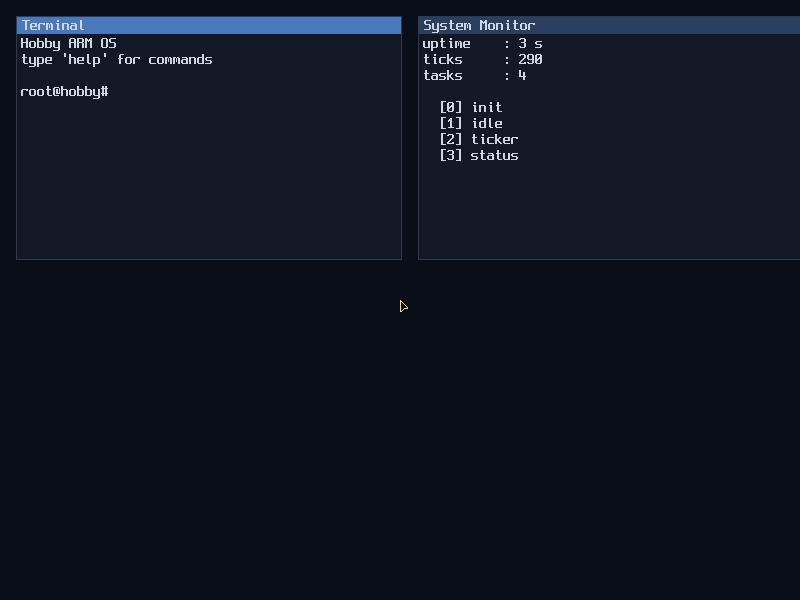
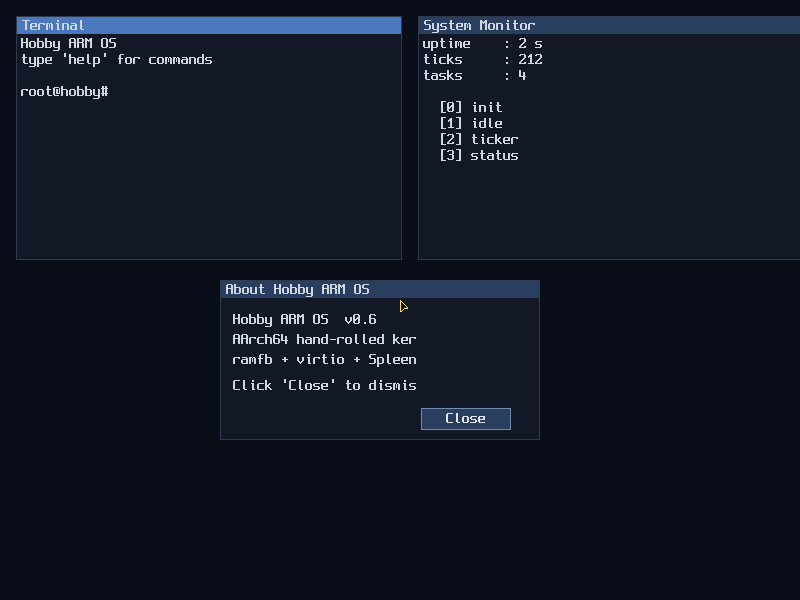
J1: widget toolkit (label + button) + About dialog
window_t now has a 'kind' field so it can hold either a text buffer
or a widget tree. New widget_t carries x/y/w/h, text, pressed state
and an on_click callback. window_create_widget builds a dialog-style
window; window_add_label/window_add_button populate it.

Mouse handling grows a hit-test loop: a press inside a button marks
it pressed (visual feedback), a release while still over the same
button fires its callback. Title-bar drag still works for both
window kinds.

The About dialog spawns at boot with a few label rows and a Close
button wired to window_close. Click it and the dialog disappears.
Three windows now live on the desktop side by side.

diff --git a/src/window.c b/src/window.c
@@ -57,17 +57,78 @@ window_t *window_create(const char *title, int x, int y) {
     copy_title(w->title, title);
     w->visible = 1;
     w->focused = (window_n == 0);
+    w->kind    = WIN_KIND_TEXT;
     w->bg      = WIN_BG;
     w->fg      = WIN_FG;
     w->accent  = WIN_ACCENT;
     w->cur_row = 0;
     w->cur_col = 0;
+    w->widget_count = 0;
     for (int r = 0; r < WIN_ROWS; r++)
         for (int c = 0; c < WIN_COLS; c++)
             w->text[r][c] = ' ';
     if (focus_idx < 0) focus_idx = window_n;
     window_n++;
     return w;
+}
+
+window_t *window_create_widget(const char *title, int x, int y, int w, int h) {
+    if (window_n >= MAX_WINDOWS) return NULL;
+    window_t *win = &windows[window_n];
+    win->id      = window_n;
+    win->x       = x;
+    win->y       = y;
+    win->w       = w;
+    win->h       = h;
+    copy_title(win->title, title);
+    win->visible = 1;
+    win->focused = 0;
+    win->kind    = WIN_KIND_WIDGET;
+    win->bg      = WIN_BG;
+    win->fg      = WIN_FG;
+    win->accent  = WIN_ACCENT;
+    win->widget_count = 0;
+    if (focus_idx < 0) focus_idx = window_n;
+    window_n++;
+    return win;
+}
+
+static void copy_widget_text(char *dst, const char *src) {
+    int i = 0;
+    while (i < WIDGET_TEXT_MAX - 1 && src[i]) { dst[i] = src[i]; i++; }
+    dst[i] = '\0';
+}
+
+widget_t *window_add_label(window_t *w, int x, int y,
+                           int width, const char *text) {
+    if (!w || w->widget_count >= WIN_MAX_WIDGETS) return NULL;
+    widget_t *g = &w->widgets[w->widget_count++];
+    g->type   = WIDGET_LABEL;
+    g->x = x; g->y = y;
+    g->w = width; g->h = WIN_CHAR_H;
+    g->pressed = 0;
+    g->on_click = NULL;
+    copy_widget_text(g->text, text);
+    return g;
+}
+
+widget_t *window_add_button(window_t *w, int x, int y, int width,
+                            const char *text,
+                            void (*on_click)(window_t *, widget_t *)) {
+    if (!w || w->widget_count >= WIN_MAX_WIDGETS) return NULL;
+    widget_t *g = &w->widgets[w->widget_count++];
+    g->type   = WIDGET_BUTTON;
+    g->x = x; g->y = y;
+    g->w = width; g->h = WIN_CHAR_H + 6;
+    g->pressed  = 0;
+    g->on_click = on_click;
+    copy_widget_text(g->text, text);
+    return g;
+}
+
+void window_close(window_t *w) {
+    if (!w) return;
+    w->visible = 0;
 }
 
 void window_clear(window_t *w) {
@@ -158,6 +219,21 @@ static int point_in_titlebar(window_t *w, int x, int y) {
            y >= w->y && y < w->y + WIN_TITLE_H;
 }
 
+static widget_t *widget_at(window_t *w, int gx, int gy) {
+    if (w->kind != WIN_KIND_WIDGET) return NULL;
+    int local_x = gx - w->x - WIN_BORDER;
+    int local_y = gy - w->y - WIN_TITLE_H;
+    for (int i = 0; i < w->widget_count; i++) {
+        widget_t *g = &w->widgets[i];
+        if (g->type != WIDGET_BUTTON) continue;
+        if (local_x >= g->x && local_x < g->x + g->w &&
+            local_y >= g->y && local_y < g->y + g->h) {
+            return g;
+        }
+    }
+    return NULL;
+}
+
 void window_handle_pointer(int32_t mx, int32_t my, int buttons) {
     int left_now  = (buttons & 1) != 0;
     int left_prev = (prev_buttons & 1) != 0;
@@ -168,11 +244,13 @@ void window_handle_pointer(int32_t mx, int32_t my, int buttons) {
         /* topmost window under the cursor wins (focused first, then later) */
         int hit = -1;
         if (focus_idx >= 0 && focus_idx < window_n &&
+            windows[focus_idx].visible &&
             point_in_window(&windows[focus_idx], (int)mx, (int)my)) {
             hit = focus_idx;
         } else {
             for (int i = window_n - 1; i >= 0; i--) {
-                if (point_in_window(&windows[i], (int)mx, (int)my)) {
+                if (windows[i].visible &&
+                    point_in_window(&windows[i], (int)mx, (int)my)) {
                     hit = i;
                     break;
                 }
@@ -180,7 +258,10 @@ void window_handle_pointer(int32_t mx, int32_t my, int buttons) {
         }
         if (hit >= 0) {
             window_set_focus(&windows[hit]);
-            if (point_in_titlebar(&windows[hit], (int)mx, (int)my)) {
+            widget_t *g = widget_at(&windows[hit], (int)mx, (int)my);
+            if (g) {
+                g->pressed = 1;
+            } else if (point_in_titlebar(&windows[hit], (int)mx, (int)my)) {
                 drag_active = 1;
                 drag_window = hit;
                 drag_off_x  = (int)mx - windows[hit].x;
@@ -203,9 +284,59 @@ void window_handle_pointer(int32_t mx, int32_t my, int buttons) {
     if (release) {
         drag_active = 0;
         drag_window = -1;
+
+        /* fire button click on release if cursor is still over a pressed
+         * button in the focused window */
+        if (focus_idx >= 0 && focus_idx < window_n) {
+            window_t *w = &windows[focus_idx];
+            for (int i = 0; i < w->widget_count; i++) {
+                widget_t *g = &w->widgets[i];
+                if (g->type != WIDGET_BUTTON) continue;
+                if (g->pressed) {
+                    widget_t *over = widget_at(w, (int)mx, (int)my);
+                    if (over == g && g->on_click) {
+                        g->on_click(w, g);
+                    }
+                    g->pressed = 0;
+                }
+            }
+        }
     }
 
     prev_buttons = buttons;
+}
+
+static void draw_widget(window_t *w, widget_t *g) {
+    int wx = w->x + WIN_BORDER + g->x;
+    int wy = w->y + WIN_TITLE_H + g->y;
+
+    if (g->type == WIDGET_BUTTON) {
+        uint32_t bg = g->pressed ? 0x00355077u : 0x002a3e60u;
+        uint32_t edge = 0x00708ab0u;
+        fb_fill_rect(wx, wy, g->w, g->h, bg);
+        fb_fill_rect(wx, wy, g->w, 1, edge);
+        fb_fill_rect(wx, wy + g->h - 1, g->w, 1, edge);
+        fb_fill_rect(wx, wy, 1, g->h, edge);
+        fb_fill_rect(wx + g->w - 1, wy, 1, g->h, edge);
+
+        /* center the label horizontally */
+        int len = 0;
+        while (len < WIDGET_TEXT_MAX && g->text[len]) len++;
+        int text_w = len * WIN_CHAR_W;
+        int tx = wx + (g->w - text_w) / 2;
+        int ty = wy + (g->h - 16) / 2;
+        for (int i = 0; i < len; i++) {
+            fb_draw_glyph16((uint32_t)(tx + i * WIN_CHAR_W),
+                            (uint32_t)ty, g->text[i], 0x00e0e6f0u);
+        }
+        return;
+    }
+
+    /* WIDGET_LABEL */
+    for (int i = 0; i < WIDGET_TEXT_MAX && g->text[i]; i++) {
+        fb_draw_glyph16((uint32_t)(wx + i * WIN_CHAR_W),
+                        (uint32_t)wy, g->text[i], w->fg);
+    }
 }
 
 static void paint_window(window_t *w) {
@@ -230,7 +361,15 @@ static void paint_window(window_t *w) {
     int cw = w->w - 2 * WIN_BORDER;
     int ch = w->h - WIN_TITLE_H - WIN_BORDER;
     fb_fill_rect(cx, cy, cw, ch, w->bg);
-    /* Content text */
+
+    if (w->kind == WIN_KIND_WIDGET) {
+        for (int i = 0; i < w->widget_count; i++) {
+            draw_widget(w, &w->widgets[i]);
+        }
+        return;
+    }
+
+    /* WIN_KIND_TEXT */
     for (int r = 0; r < WIN_ROWS; r++) {
         for (int c = 0; c < WIN_COLS; c++) {
             char ch_ = w->text[r][c];

diff --git a/src/window.h b/src/window.h
@@ -11,23 +11,53 @@
 #define WIN_TITLE_H   18
 #define WIN_BORDER    1
 
+#define WIN_KIND_TEXT   0
+#define WIN_KIND_WIDGET 1
+
+#define WIDGET_LABEL  0
+#define WIDGET_BUTTON 1
+
+#define WIDGET_TEXT_MAX 24
+#define WIN_MAX_WIDGETS 16
+
+struct window;
+
+typedef struct widget {
+    int   type;
+    int   x, y, w, h;     /* relative to window content area */
+    char  text[WIDGET_TEXT_MAX];
+    int   pressed;
+    void (*on_click)(struct window *win, struct widget *self);
+} widget_t;
+
 typedef struct window {
     int      id;
     int      x, y, w, h;
     char     title[WIN_TITLE_MAX];
     int      visible;
     int      focused;
+    int      kind;
     uint32_t bg;
     uint32_t fg;
     uint32_t accent;
-    /* tiny back buffer of text glyphs */
+    /* tiny back buffer of text glyphs (used when kind == WIN_KIND_TEXT) */
     char     text[WIN_ROWS][WIN_COLS];
     int      cur_row;
     int      cur_col;
+    /* widget tree (used when kind == WIN_KIND_WIDGET) */
+    widget_t widgets[WIN_MAX_WIDGETS];
+    int      widget_count;
 } window_t;
 
 void     window_init(void);
 window_t *window_create(const char *title, int x, int y);
+window_t *window_create_widget(const char *title, int x, int y, int w, int h);
+widget_t *window_add_label(window_t *w, int x, int y,
+                           int width, const char *text);
+widget_t *window_add_button(window_t *w, int x, int y, int width,
+                            const char *text,
+                            void (*on_click)(window_t *, widget_t *));
+void     window_close(window_t *w);
 void     window_clear(window_t *w);
 void     window_putc(window_t *w, char c);
 void     window_puts(window_t *w, const char *s);

diff --git a/src/kernel.c b/src/kernel.c
@@ -224,6 +224,12 @@ static void format_uint(char *buf, uint64_t v) {
 
 static window_t *win_terminal;
 static window_t *win_monitor;
+static window_t *win_about;
+
+static void about_close_cb(window_t *w, widget_t *g) {
+    (void)g;
+    window_close(w);
+}
 
 static void render_monitor_window(void) {
     if (!win_monitor) return;
@@ -329,6 +335,16 @@ void kernel_main(void) {
         win_terminal = window_create("Terminal", 16, 16);
         win_monitor  = window_create("System Monitor",
                                      16 + win_terminal->w + 16, 16);
+
+        /* About window: a real widget-based dialog with labels + a button */
+        win_about = window_create_widget(
+            "About Hobby ARM OS",
+            220, 280, 320, 160);
+        window_add_label (win_about, 12, 14, 280, "Hobby ARM OS  v0.6");
+        window_add_label (win_about, 12, 34, 280, "AArch64 hand-rolled kernel");
+        window_add_label (win_about, 12, 54, 280, "ramfb + virtio + Spleen 8x16");
+        window_add_label (win_about, 12, 80, 280, "Click 'Close' to dismiss.");
+        window_add_button(win_about, 200, 110, 90, "Close", about_close_cb);
     }
 #endif
 
